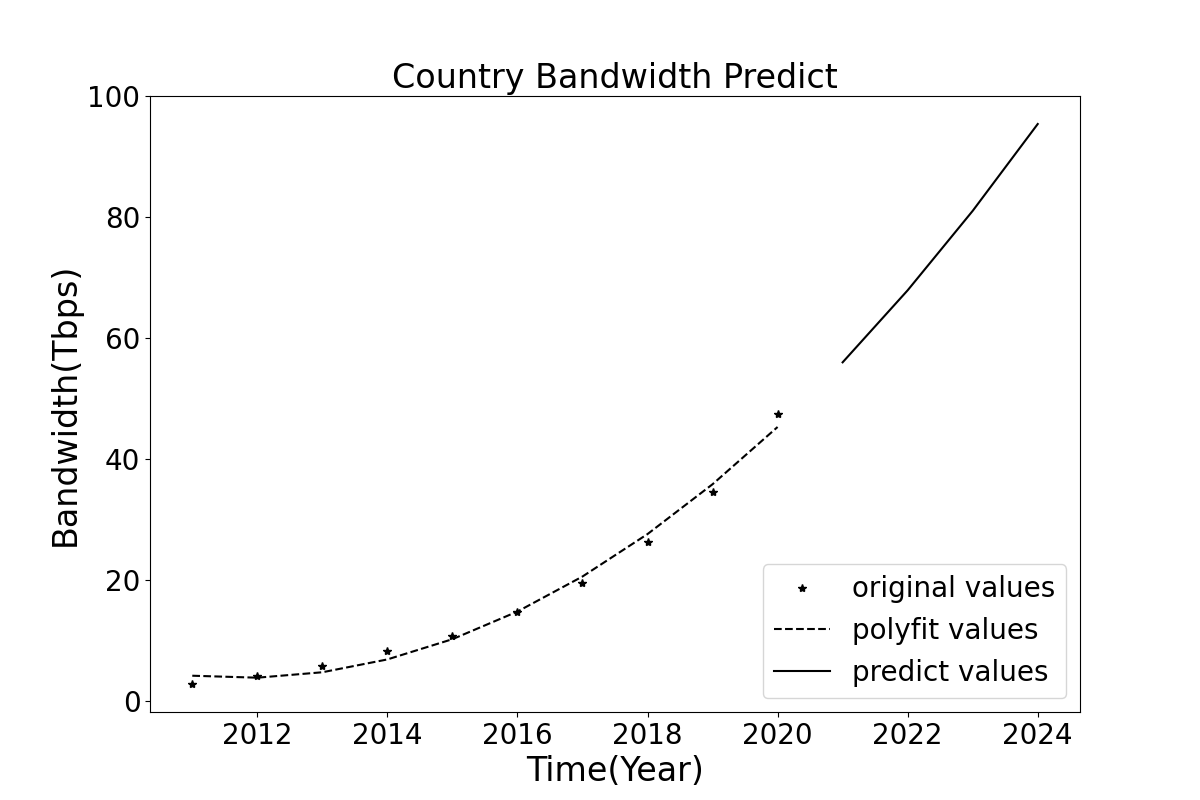
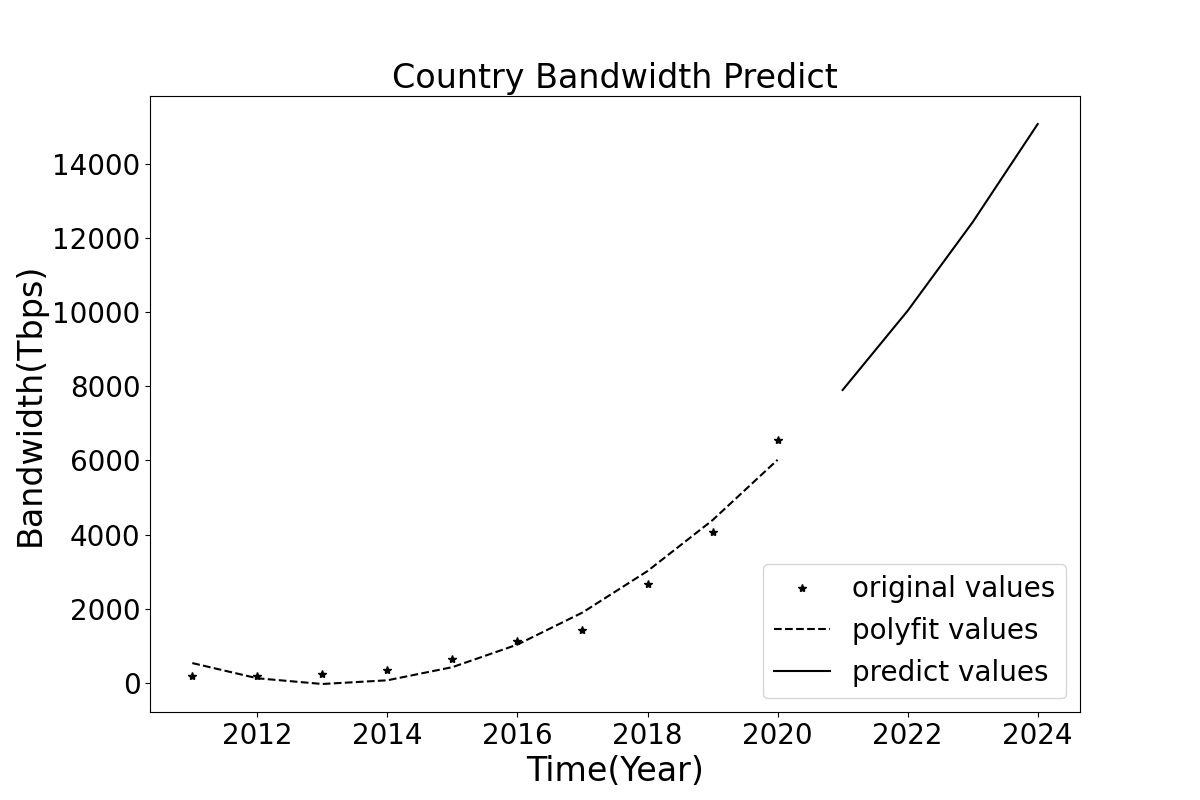
完成MainOne事件数据梳理工作

diff --git a/065GlobalTrafficModel/capacity_predict.py b/065GlobalTrafficModel/capacity_predict.py
@@ -46,7 +46,7 @@ def poly_fitting_predict(x, y):
     for i in range(0, len(x)):
         x[i] = int(x[i])
     for i in range(0, len(y)):
-        y[i] = float(y[i])/1000000
+        y[i] = int(y[i])
 
     print(x), print(y)
     res = np.polyfit(x, y, 2)  # 使用多项式进行拟合
@@ -55,28 +55,28 @@ def poly_fitting_predict(x, y):
     x1 = x
     res_y = p(x1)
     x2 = []  # 存储时间
-    for i in range(2021, 2025):
+    for i in range(2021, 2026):
         x2.append(int(i))
     predict_y = p(x2)
     print("x2:", x2)
     print("predict_y:", predict_y)
 
-    plt.figure(figsize=(12, 8))
-    # 设置刻度字体大小
-    plt.xticks(fontsize=20)
-    plt.yticks(fontsize=20)
-    plot1 = plt.plot(x, y, '*', label='original values', color='black')
-    plot2 = plt.plot(x1, res_y, '--', label='polyfit values', color='black')
-    plot3 = plt.plot(x2, predict_y, '-', label='predict values', color='black')
-    # 设置坐标标签字体大小
-    plt.ylabel('Bandwidth(Tbps)', fontsize=24)
-    plt.xlabel('Time(Year)', fontsize=24)
-    # 设置图例字体大小
-    plt.legend(loc=4, fontsize=20)
-    plt.title('Country Bandwidth Predict', fontsize=24)
-    plt.savefig('Poply_fitting.png')
-    plt.show()
-    return x2, predict_y
+    # plt.figure(figsize=(12, 8))
+    # # 设置刻度字体大小
+    # plt.xticks(fontsize=20)
+    # plt.yticks(fontsize=20)
+    # plot1 = plt.plot(x, y, '*', label='original values', color='black')
+    # plot2 = plt.plot(x1, res_y, '--', label='polyfit values', color='black')
+    # plot3 = plt.plot(x2, predict_y, '-', label='predict values', color='black')
+    # # 设置坐标标签字体大小
+    # plt.ylabel('Bandwidth(Tbps)', fontsize=24)
+    # plt.xlabel('Time(Year)', fontsize=24)
+    # # 设置图例字体大小
+    # plt.legend(loc=4, fontsize=20)
+    # plt.title('Country Bandwidth Predict', fontsize=24)
+    # plt.savefig('Poply_fitting.png')
+    # # plt.show()
+    return predict_y
 
 
 def capacity_predict():
@@ -96,7 +96,22 @@ def capacity_predict():
         country_capacity_dict[line[0]] = line[1:]
     # print(country_capacity_dict["时间"])
     # print(country_capacity_dict["China"])
-    print(poly_fitting_predict(country_capacity_dict["时间"], country_capacity_dict["China"]))
+    # print(poly_fitting_predict(country_capacity_dict["时间"], country_capacity_dict["China"]))
+    result_list = []  # 存储预测结果
+    for key in country_capacity_dict.keys():
+        if key == "时间":
+            continue
+        try:
+            predict_value = poly_fitting_predict(country_capacity_dict["时间"], country_capacity_dict[key])
+        except Exception as e:
+            print(e, key, country_capacity_dict[key])
+
+        temp_list = [key]
+        temp_list.extend(country_capacity_dict[key])
+        temp_list.extend(predict_value)
+        result_list.append(temp_list)
+    save_predict_value = "../000LocalData/global_traffic_model/cap_countries_predict.csv"
+    write_to_csv(result_list, save_predict_value)
 
 
 if __name__ == "__main__":

diff --git a/066MainOne/deal_message.py b/066MainOne/deal_message.py
@@ -1,0 +1,50 @@
+# coding:utf-8
+"""
+create on Jun 13, 2021 By Wenyan YU
+Email: ieeflsyu@outlook.com
+
+Function:
+
+处理BGP Message报文，20181112 21:00:00-20181112 22:39:59
+匹配模式：4809（中国电信） 37282（MainOne） 15169(Google)
+
+"""
+
+import time
+from IPy import IP
+
+
+message_file = "../000LocalData/MainOne/updates.all.mainone.txt"
+
+
+def deal_message():
+    """
+    处理主程序
+    :return:
+    """
+    print("收集BGP Message报文的时间段: 20181112 21:00:00-20181112 22:39:59")
+    print("匹配模式：4809（中国电信） 37282（MainOne） 15169(Google)")
+    file_read = open(message_file, 'r', encoding='utf-8')
+    message_count = 0
+    ip_prefix = []  # 存储受影响的IP prefix列表
+    for line in file_read.readlines():
+        message_count += 1
+        if line.find("4809 37282 15169|") != -1:
+            line = line.strip().split("|")
+            ip_prefix.append(line[5])
+    print("接收到BGP Message报文总数量:", message_count)
+    print("受影响的前缀记录：", len(ip_prefix))
+    print("受影响的前缀记录（去重后）：", len(list(set(ip_prefix))))
+    ip_num = 0  # 记录受影响的IP地址数量
+    for item in list(set(ip_prefix)):
+        # print(item, len(IP(item)))
+        ip_num += len(IP(item))
+    print("受影响IP地址数量统计（去重后）:", ip_num)
+
+
+if __name__ == "__main__":
+    time_start = time.time()  # 记录启动时间
+    deal_message()
+    print("=>Scripts Finish, Time Consuming:", (time.time() - time_start), "S")
+
+

diff --git a/064IPDB/hlj_trace.py b/064IPDB/hlj_trace.py
@@ -61,9 +61,20 @@ def deal():
                  [])
 
 
+def once_query():
+    """
+    查询一次IP地址
+    :return:
+    """
+    db = City("../000LocalData/ipdb/caict_full.ipdb")
+    print("ipdb.build.time:", db.build_time())
+    print(db.find("37.111.32.171", "CN"))
+
+
 if __name__ == "__main__":
     time_start = time.time()  # 记录启动的时间
-    deal()
+    # deal()
+    once_query()
     print("=>Scripts Finish, Time Consuming:", (time.time() - time_start), "S")
 
 
